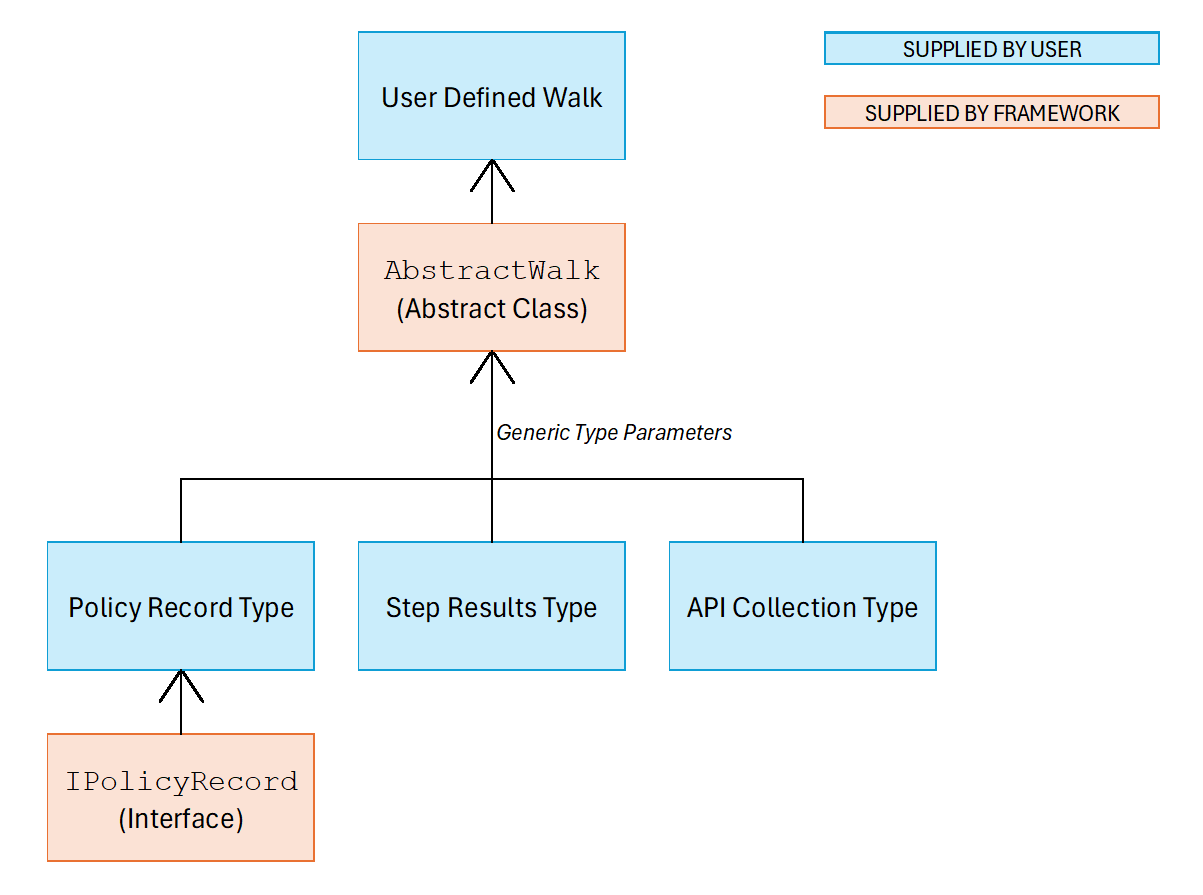
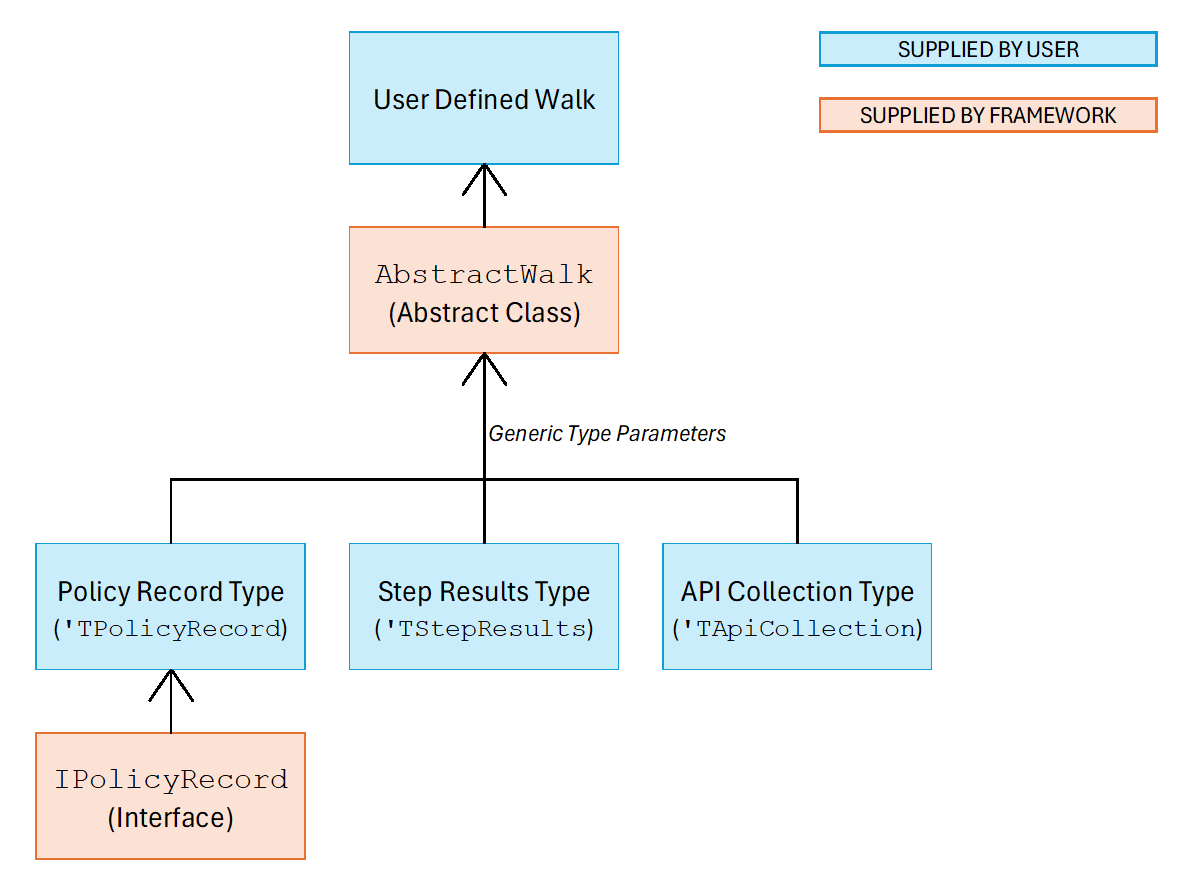
Latest version.

Changed region(s): [[0.0308, 0.0303, 0.7997, 0.9686], [0.6766, 0.0303, 0.9842, 0.1513], [0.9534, 0.0303, 0.9842, 0.0605]]

diff --git a/Implementations/README.md b/Implementations/README.md
@@ -7,15 +7,15 @@ This project provides both:
 * User implementations of specific walks.
 
 
-### So... How is a walk specified?
+### A light introduction...
 
-Each walk is tightly coupled with the following (as defined in the top-level `README`)
+Each walk is tightly coupled with the following aspects; corresponding type parameters are shown within (`brackets`).
 
-* **Step results structure**
-* **Policy record structure**
-* **API collection**
+* **Policy record type** (`'TPolicyRecord`)
+* **Step results type** (`'TStepResults`)
+* **API collection type** (`'TApiCollection`)
 
-The walk is made aware of the above via generic type parameters (which must therefore be known at compile-time).
+This is shown visually below:
 
 ![](/Documentation/classlayout.png)
 
@@ -32,8 +32,25 @@ The last two steps of a walk **must** be:
 * Move to closing details for each record; specifically, those records in-force at **both** the opening **and** closing positions (`ClosingExistingDataStep`).
 * Allow for new/reinstated business; also the closing step in the walk (`AddNewRecordsStep`).
 
-The user is free to supply as many additional (ie. **interior**) steps between those above as needed; this is discussed further in the following section.
+The user is free to supply as many additional (ie. **interior**) steps between those above as needed; however, note that only `SourceChangeStep` and `DataChangeStep` types are permitted for these.
 
+Below we see a visual representation of an hypothetical walk:
+
+* We can see the 3x required steps at the start and the 2x required steps at the end.
+* Between those, we can see the chosen interior steps.
+* Steps have been grouped into **data stages**.
+  - All steps within a given stage are run using the same policy data.
+  - The presence of a data stage does not indicate that the policy data must change, only that it can change should the user logic require it.
+  - Each interior data stage can contain zero or more `SourceChangeStep` definitions.
+  - As a minimum, there will always be an opening and closing data stage.
+
+![](/Documentation/examplewalk1.png)
+
+Below we see a much simpler walk with only a single interior step:
+
+![](/Documentation/examplewalk2.png)
+
+### `SourceChangeSteps`
 
  similar to that shown below. Note the use of a lambda definition within a code quotation.
   - The table below shows the arguments that will be supplied to (and hence expected of) the quoted lambda. Unused parameters can be replaced with a `_` discarding placeholder. 

diff --git a/README.md b/README.md
@@ -60,12 +60,12 @@ Ideally:
 
 The following projects are **core** to what we are trying to achieve here:
 
-* [**`Common`**](/Common/README.md) - Provides definitions of common types used throughout the solution. It is not expected that users will need to directly reference this project.
+* [**`Common`**](/Common) - Provides definitions of common types used throughout the solution. It is not expected that users will need to directly reference this project.
 * **`Controller`** - Provides logic needed to convert a user supplied walk into actionable code (via runtime compilation) and execute it.
 
 The following projects are specific to the walks (and hence likely the coresponding portfolio of business) that need to be run and the mechanisms needed to make that happen:
 
-* [**`Implementations`**](/Implementations/README.md) - Definitions of the various user supplied walks, including the building blocks that made that happen.
+* [**`Implementations`**](/Implementations) - Definitions of the various user supplied walks, including the building blocks that made that happen.
 * **`DataStore.Postgres`** - Provides an interface to an underlying data-store hosted on a Postgres database.
 * **`Runner`** - A user supplied executable that, by bringing together the various aspects above, will phyically run the walk.
 

diff --git a/Common/README.md b/Common/README.md
@@ -3,7 +3,7 @@
 
 This project exposes a number of types (including interfaces) used throughout the framework.
 
-Note that code comments can be found throughout the [`Types.fs`](/Common/Types.fs) source file.
+Note that (hopefully useful) code comments can be found throughout the [`Types.fs`](/Common/Types.fs) source file.
 
 It is not expected the users will need to directly access types and logic exposed via the other source files within this project.
 
